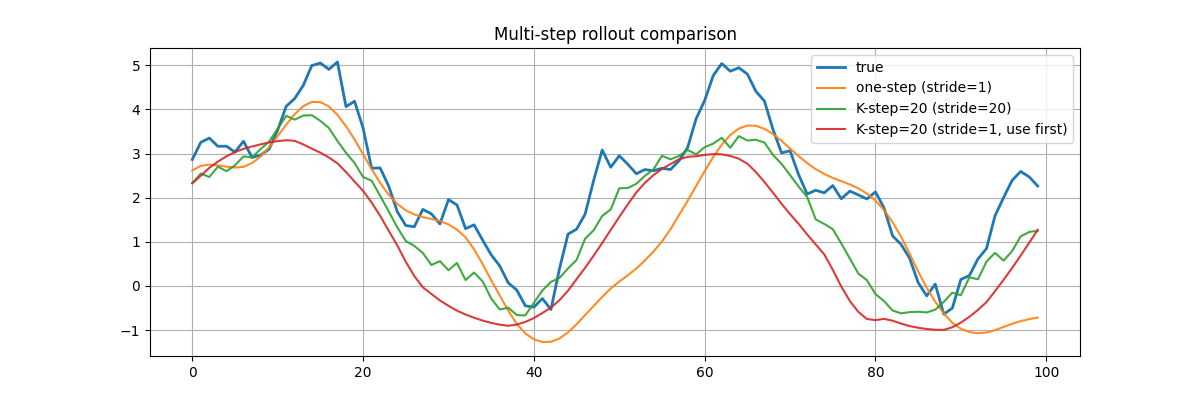
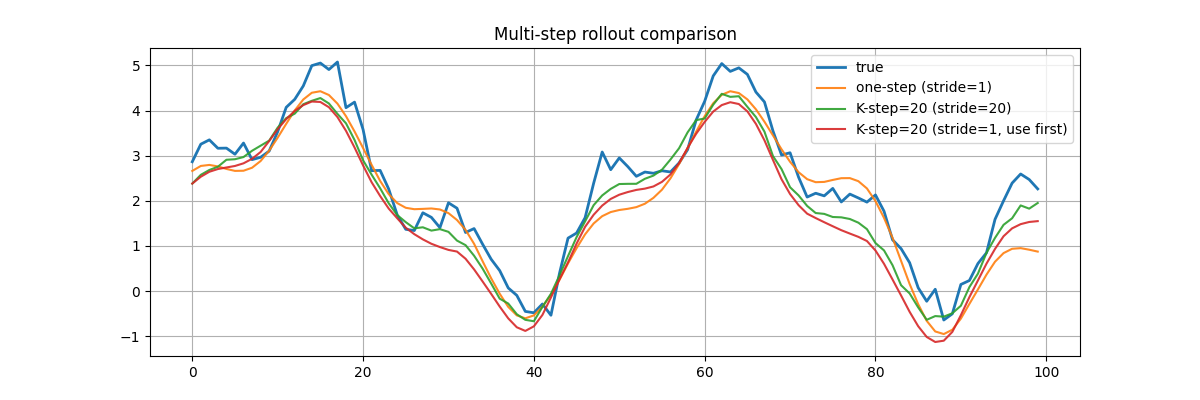
refactor: increased the learning rate (windows & epochs)

Changed region(s): [[0.0925, 0.21, 0.8942, 0.87], [0.0925, 0.81, 0.1233, 0.84], [0.0925, 0.72, 0.1233, 0.75]]

diff --git a/src/multistep_forecast.py b/src/multistep_forecast.py
@@ -524,13 +524,13 @@ def demo() -> None:
     tf.keras.utils.set_random_seed(123)
 
     series = _make_series(n=2600, seed=123)
-    window = 40
+    window = 60
     k = 20
     H = 100
 
     # Train models (students implement train_model)
-    one_model, X_test_1, y_test_1 = train_model(series, window=window, horizon=1, epochs=15, seed=123, verbose=0)
-    k_model, X_test_k, y_test_k = train_model(series, window=window, horizon=k, epochs=15, seed=123, verbose=0)
+    one_model, X_test_1, y_test_1 = train_model(series, window=window, horizon=1, epochs=50, seed=123, verbose=0)
+    k_model, X_test_k, y_test_k = train_model(series, window=window, horizon=k, epochs=50, seed=123, verbose=0)
 
     # Create an initial window and ground-truth future from the end of the series
     init_window = series[-(window + H) : -H]